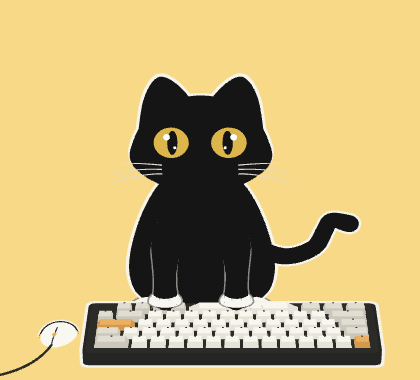
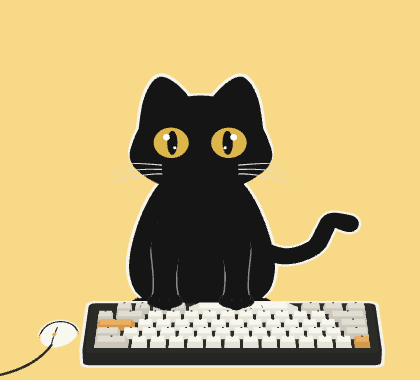
Add outline toggle and dark paws for the black coat

Changed region(s): [[0.4952, 0.7526, 0.65, 0.8105], [0.3095, 0.7526, 0.4333, 0.8105]]

diff --git a/web/cat.js b/web/cat.js
@@ -475,7 +475,7 @@
   // `wave` colour, and `ears` scales the ears. `shade` is the soft volume shading; black stays a
   // flat silhouette like the reference.
   const COATS = {
-    black: { fur: '#151515', ink: '#151515', rim: '#f6f3e8', arm: '#8a8984', paw: '#f7f6f0', toe: '#b9b7ae', whisker: '#dedcd4', eye: 'gold' },
+    black: { fur: '#151515', ink: '#151515', rim: '#f6f3e8', arm: '#8a8984', paw: '#151515', pawRim: '#212121', toe: '#414141', whisker: '#dedcd4', eye: 'gold' },
     tuxedo: { fur: '#1a1a1a', ink: '#151515', lid: '#e4c25a', rim: '#f6f3e8', arm: '#8a8984', paw: '#f8f7f2', toe: '#bcbab2', whisker: '#e8e6de', eye: 'green',
       light: '#f8f7f2', muzzle: 1, tuxedo: 1, nose: '#e7a0a0', mouth: '#9a8f88', inner: '#3a2e2e', innerAmt: 1, shade: 0.25 },
     orange: { fur: '#eda25a', ink: '#b8712f', lid: '#8a4a1f', rim: '#fff8ea', arm: '#b8712f', paw: '#fff6e8', toe: '#e0b991', whisker: '#fffaf0', eye: 'green',
@@ -534,6 +534,8 @@
     chinLine.visible = !solid;
     chinMat.uniforms.uColor.value.set(c.ink || c.arm);
     rimMat.color.set(c.rim);
+    rimMat.visible = TUNING.showOutline !== false;
+    pawRimMat.color.set(c.pawRim || '#8f8f8a');
     armRimMat.color.set(c.arm);
     pawMat.color.set(c.paw);
     toeMat.color.set(c.toe);

diff --git a/web/tuning.js b/web/tuning.js
@@ -28,6 +28,8 @@ const TUNING_SCHEMA = [
       hint: '鼠标停下后，还要盯这么久才放松。' },
   ] },
   { group: '画面', items: [
+    { key: 'showOutline', label: '显示轮廓描边', type: 'toggle', def: true,
+      hint: '控制猫咪身体外沿的描边。黑猫的描边是白色。' },
     { key: 'maxFps', label: '最高帧率', type: 'range', min: 20, max: 120, step: 5, def: 120, unit: 'FPS',
       hint: '限制互动时的渲染帧率。空闲时最多绘制约 20 帧/秒。' },
   ] },

diff --git a/web/behavior.js b/web/behavior.js
@@ -523,7 +523,6 @@
   let last = now(), nextFrame = 0, previousRate = 0;
   function loop() {
     requestAnimationFrame(loop);
-    S.ticks = (S.ticks || 0) + 1;
     if (frozen !== null) return;
     const t = now();
     const configuredFps = TUNING.maxFps;
@@ -542,6 +541,7 @@
     last = t;
     update(t, dt);
     renderer.render(scene, camera);
+    S.ticks = (S.ticks || 0) + 1;
     if (window.keyCatLinuxInputRegion) {
       window.keyCatLinuxInputRegion(renderer.domElement);
     } else if (S.cursor) {

diff --git a/web/settings.html b/web/settings.html
@@ -86,6 +86,8 @@ function render() {
         hint.textContent = it.hint;
         row.append(hint);
       }
+      input.id = it.key;
+      label.htmlFor = input.id;
       inputs[it.key] = { it, input, row };
       card.append(row);
     }

diff --git a/README.md b/README.md
@@ -15,6 +15,7 @@
 - 在 Ubuntu 上通过 GTK、WebKitGTK 和 Tauri 运行。Wayland 会话有 XWayland 时默认使用 X11 后端。
 - 从托盘的「大小」调整窗口，关闭「鼠标穿透」后可拖动猫身体。头部用于摸猫。
 - 托盘「调节反应… → 画面」可设 20–120 FPS 的最高帧率，默认 120 FPS，即时应用并随设置保存。空闲时最高约 20 FPS，实际帧率还受屏幕刷新率和 WebView 限制。
+- 黑猫的四只爪子使用黑色，保留深灰色趾缝。「画面 → 显示轮廓描边」可即时开关猫咪的外轮廓，默认开启，设置会保存。
 - 耳根修复用与耳侧切线衔接的三次贝塞尔曲线过渡到脸颊。只替换耳根附近的采样点，皮肤与外描边使用相同的处理。
 
 | 原版耳根 | 修复后的耳根 |
